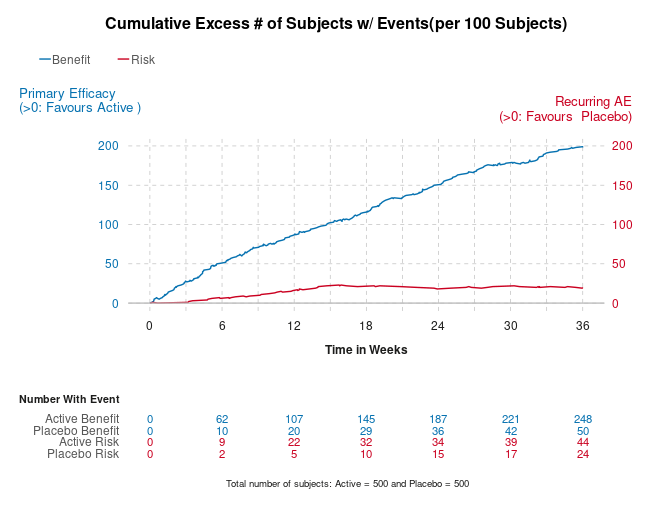
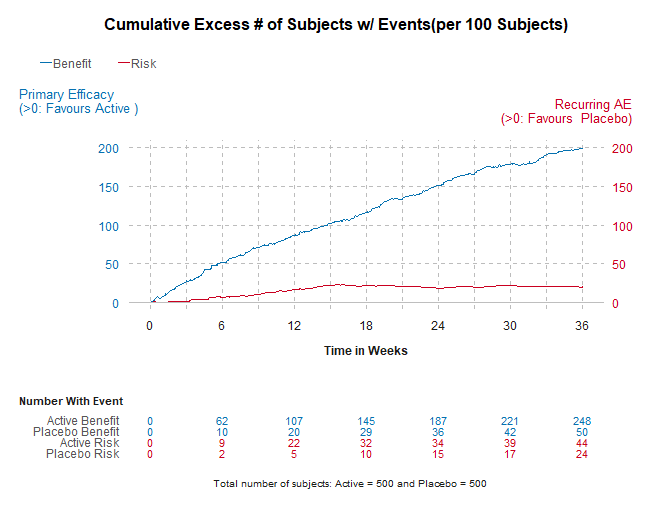
fix: Rerun readme.Rmd to update readme.md. This didn't work on posit.cloud - but works on my desktop/laptop.

diff --git a/README.md b/README.md
@@ -84,7 +84,9 @@ devtools::install_github("BR-Visualization/brcharts")
 <img src="man/figures/README-pyramid_plot-1.png" width="100%" />
 
 <details>
+
 <summary>
+
 Click to learn more
 </summary>
 
@@ -112,8 +114,11 @@ Stratifying the randomization on disease type might be necessary if
 clinical evidence is needed for disease type B, particularly for younger
 age groups.
 </details>
+
 <details>
+
 <summary>
+
 Click to view sample code
 </summary>
 
@@ -140,7 +145,9 @@ demography |>
 <img src="man/figures/README-line_chart-1.png" width="100%" />
 
 <details>
+
 <summary>
+
 Click to learn more
 </summary>
 
@@ -172,8 +179,11 @@ History of disease progression also impacts patient engagement, since
 newly diagnosed patients might have no experience with more serious
 manifestations, such as mental function.
 </details>
+
 <details>
+
 <summary>
+
 Click to view sample code
 </summary>
 
@@ -202,7 +212,9 @@ line_chart(
 <img src="man/figures/README-grouped_barchart-1.png" width="100%" />
 
 <details>
+
 <summary>
+
 Click to learn more
 </summary>
 
@@ -223,8 +235,11 @@ might place high importance in a drug that reduces severe hypertension.
 A display of background rates is also useful in determining whether a
 comorbidity is likely due to the drug or the disease.
 </details>
+
 <details>
+
 <summary>
+
 Click to view sample code
 </summary>
 
@@ -240,10 +255,12 @@ grouped_barchart(
 
 ## Figure 5 - Value Tree
 
-<div class="DiagrammeR html-widget html-fill-item" id="htmlwidget-332decc55b748362f794" style="width:100%;height:508.8px;"></div>
-<script type="application/json" data-for="htmlwidget-332decc55b748362f794">{"x":{"diagram":"graph LR;\n  A(<B>Benefit-Risk Balance<\/B>)-->B(<B>Benefits<\/B>)\n  B-->C(<B>Primary Efficacy<\/B>)\n  B-->D(<B>Secondary Efficacy<\/B>)\n  B-->E(<B>Quality of life<\/B>)\n  C-->F(<B>% Success<\/B>)\n  D-->G(<B>Mean change<\/B>)\n  E-->H(<B>Mean change<\/B>)\n  A-->I(<B>Risks<\/B>)\n  I-->J(<B>Recurring AE<\/B>)\n  I-->K(<B>Rare SAE<\/B>)\n  I-->L(<B>Liver Toxicity<\/B>)\n  J-->M(<B>Event rate<\/B>)\n  K-->N(<B>% Event<\/B>)\n  L-->O(<B>% Event<\/B>)\n  style A fill:#7ABD7E\n\n  style B fill:#7ABD7E\n  style I fill:#7ABD7E\n  style C fill:#FFE733\n  style D fill:#FFE733\n  style E fill:#FFE733\n  style J fill:#FFE733\n  style K fill:#FFE733\n  style L fill:#C6C6C6\n  style F fill: #FFAA1C\n  style G fill: #FFAA1C\n  style H fill: #FFAA1C\n  style M fill: #FFAA1C\n  style N fill: #FFAA1C\n  style O fill: #C6C6C6\n  "},"evals":[],"jsHooks":[]}</script>
+<img src="man/figures/README-value_tree-1.png" width="100%" />
+
 <details>
+
 <summary>
+
 Click to learn more
 </summary>
 
@@ -287,8 +304,11 @@ Both primary and secondary efficacy clinical endpoints were included
 because they were not correlated. Quality of Life was included to
 capture what was important to the subjects.
 </details>
+
 <details>
+
 <summary>
+
 Click to view sample code
 </summary>
 
@@ -336,7 +356,9 @@ value_tree(
 <img src="man/figures/README-forest_dot_plot-1.png" width="100%" />
 
 <details>
+
 <summary>
+
 Click to learn more
 </summary>
 
@@ -382,8 +404,11 @@ It is important to not confuse the forest plot with the similar looking
 meta-analysis plot, which has multiple rows for different studies but
 for the same endpoint.
 </details>
+
 <details>
+
 <summary>
+
 Click to view sample code
 </summary>
 
@@ -407,7 +432,9 @@ forest_dot_plot(effects_table,
 <img src="man/figures/README-tradeoff_plot-1.png" width="100%" />
 
 <details>
+
 <summary>
+
 Click to learn more
 </summary>
 
@@ -462,8 +489,11 @@ support of the generalizability of the investigational drug.
 Ideally, the investigational drug will appear in an area of unmet need
 in the acceptance region.
 </details>
+
 <details>
+
 <summary>
+
 Click to view sample code
 </summary>
 
@@ -514,7 +544,9 @@ generate_tradeoff_plot(
 <img src="man/figures/README-correlogram-1.png" width="100%" />
 
 <details>
+
 <summary>
+
 Click to learn more
 </summary>
 
@@ -547,8 +579,11 @@ There is also an explainable negative correlation between outcomes for
 quality-of-life and recurring AE. The medium positive correlation
 between recurring AE and primary efficacy is difficult to explain.
 </details>
+
 <details>
+
 <summary>
+
 Click to view sample code
 </summary>
 
@@ -563,7 +598,9 @@ create_correlogram(corr)
 <img src="man/figures/README-scatterplot-1.png" width="100%" />
 
 <details>
+
 <summary>
+
 Click to learn more
 </summary>
 
@@ -594,8 +631,11 @@ region below the diagonal threshold. Besides displaying subject
 variability, it indicates which subjects are most likely to benefit from
 the investigational drug.
 </details>
+
 <details>
+
 <summary>
+
 Click to view sample code
 </summary>
 
@@ -610,7 +650,9 @@ scatter_plot(scatterplot, outcome = c("Benefit", "Risk"))
 <img src="man/figures/README-stacked_barchart-1.png" width="100%" />
 
 <details>
+
 <summary>
+
 Click to learn more
 </summary>
 
@@ -644,8 +686,11 @@ It is expected that the percentage of subjects withdrawing increase over
 time, due to placebo subjects receiving no benefit and other subjects
 experiencing adverse events.
 </details>
+
 <details>
+
 <summary>
+
 Click to view sample code
 </summary>
 
@@ -664,7 +709,9 @@ stacked_barchart(
 <img src="man/figures/README-cumulative_excess_plot-1.png" width="100%" />
 
 <details>
+
 <summary>
+
 Click to learn more
 </summary>
 
@@ -706,8 +753,11 @@ are higher for the active drug than placebo, but not at the same rate.
 This is an ideal scenario where the benefit increased with drug exposure
 while the risk plateaued.
 </details>
+
 <details>
+
 <summary>
+
 Click to view sample code
 </summary>
 
